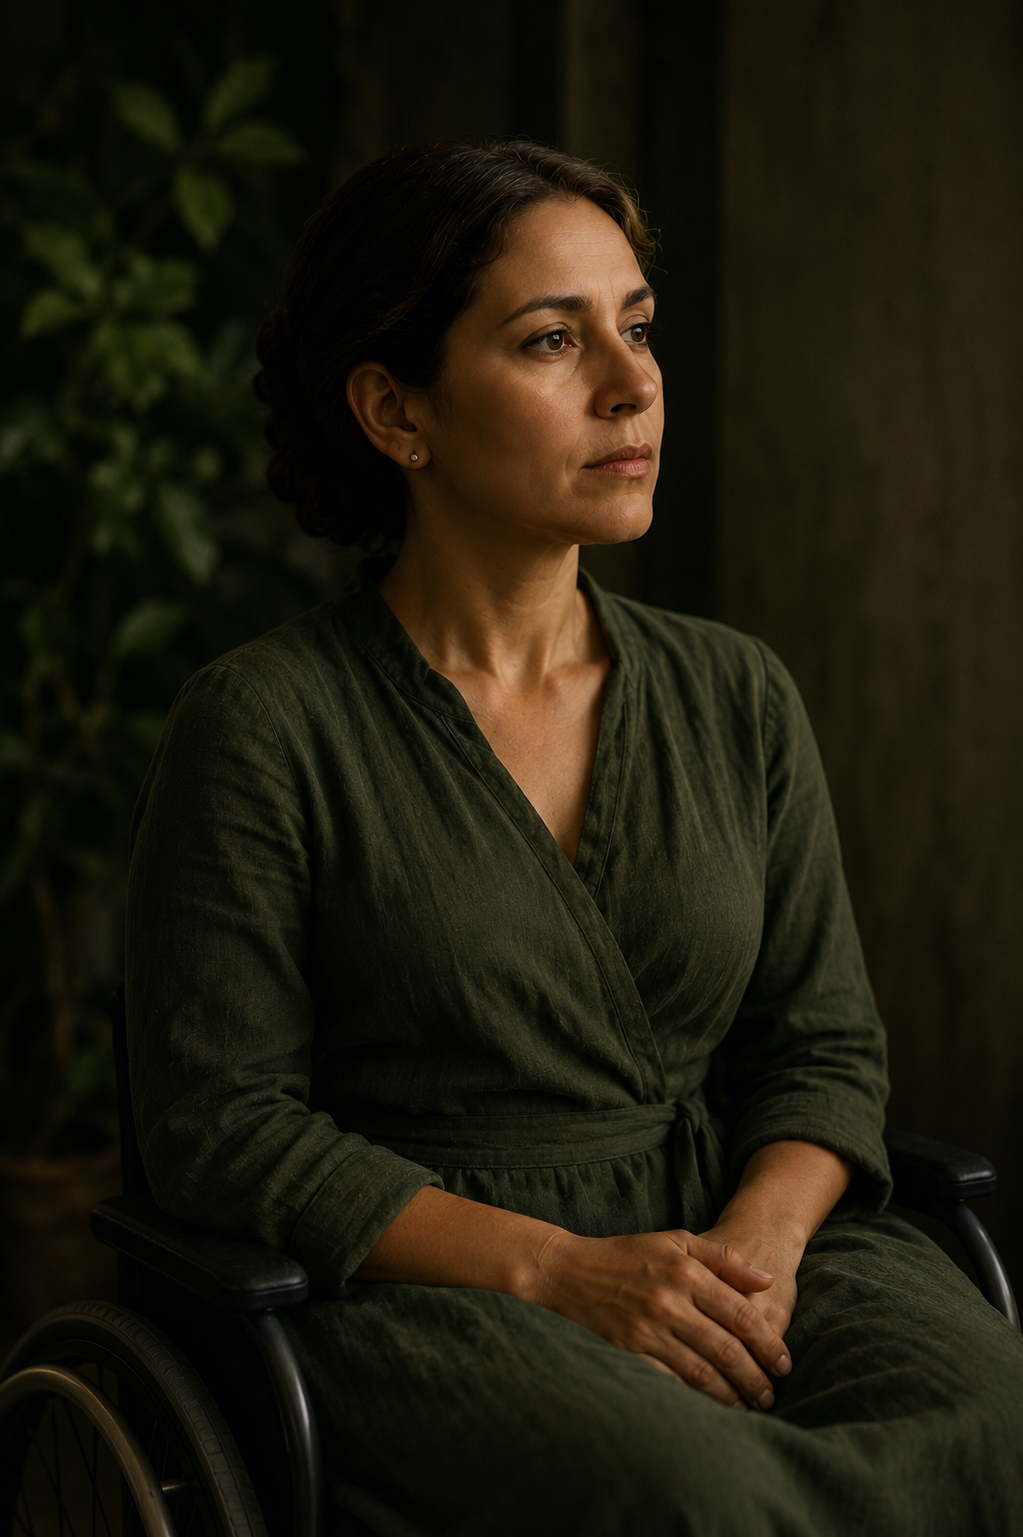
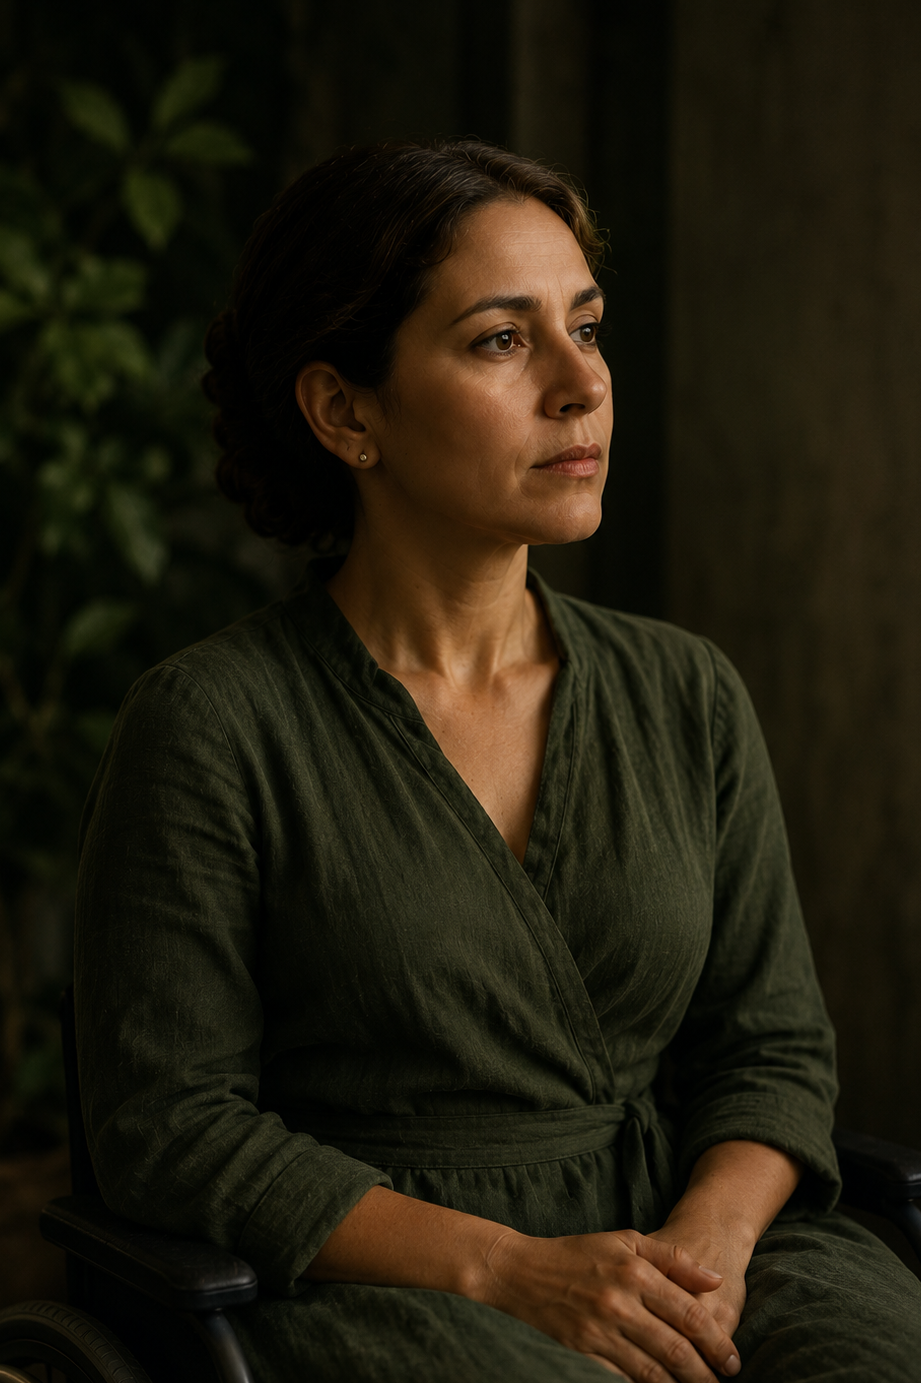
update

diff --git a/movies/campossantos/style.css b/movies/campossantos/style.css
@@ -3,7 +3,7 @@
   --secondary-color: #0a0e05;
   --text-color: #ffec;
   --title-color: #af9960;
-  --line-color: rgba(250, 239, 218, 0.5);
+  --line-color: #faefda4d;
 }
 
 @import url("https://fonts.googleapis.com/css2?family=Cormorant+Garamond:ital,wght@0,200..700;1,300..700&family=Crimson+Pro:ital,wght@0,200..900;1,200..900&display=swap");
@@ -38,7 +38,7 @@ a.button {
 }
 
 h1 {
-  color:  var(--text-color);
+  color: var(--text-color);
   line-height: 1em;
   font-size: 4.5em;
   margin: 0.5em 0;
@@ -52,7 +52,7 @@ p {
 body > header {
   background-image: url("hero.png");
   background-color: black;
-  background-position: right;
+  background-position: left;
   background-size: cover;
   background-repeat: no-repeat;
   max-height: 30em;
@@ -74,6 +74,10 @@ body > header > section {
   text-align: left;
 }
 
+body > p {
+  text-align: center;
+}
+
 button,
 a.button {
   display: inline-block;
@@ -85,6 +89,8 @@ a.button {
   font-weight: bold;
   cursor: pointer;
   border-radius: 0.25em;
+  text-align: center;
+  background-color: #0106;
   -webkit-border-radius: 0.25em;
   -moz-border-radius: 0.25em;
   -ms-border-radius: 0.25em;
@@ -97,9 +103,10 @@ body > footer {
   background-color: black;
   background-size: cover;
   background-position: center;
-  height: 10em;
+  height: fit-content;
+  max-height: 10em;
   text-align: right;
-  padding: 3em 3em 3em 10em;
+  padding: 2em 3em 4em;
   font-family: "Cormorant Garamond", serif;
   border-top: 1px solid var(--line-color);
 }
@@ -110,7 +117,7 @@ body > main {
   flex-direction: row;
   gap: 1em 3em;
   flex-wrap: wrap;
-  padding: 3em 0 0;
+  padding: 2em 0 0;
   background-color: var(--secondary-color);
 }
 
@@ -123,11 +130,25 @@ body > aside > img {
 
 .synopsis,
 .history {
-  width: calc((900px - 6em) / 2);
+  width: calc((900px - 7em) / 2);
 }
 
-.history li {
-  margin-left: 3em;
+.icon {
+  margin-left: 2em;
+  position: relative;
+}
+
+.icon::before {
+  content: "";
+  display: block;
+  position: absolute;
+  width: 3em;
+  height: 3em;
+  left: -3em;
+  background-image: url("icons.png");
+  background-repeat: no-repeat;
+  background-size: cover;
+  background-position: center;
 }
 
 .characters section img {
@@ -148,9 +169,11 @@ body > aside > img {
 
 .characters,
 .details {
+  padding: 0 1em;
   width: 100%;
   display: flex;
   flex-wrap: wrap;
+  justify-content: center;
   gap: 0;
 }
 
@@ -160,7 +183,7 @@ body > aside > img {
 
 .details {
   border-top: 1px solid var(--line-color);
-  background-color: var(--line-color);
+  background-color: var(--text-color);
 }
 
 .details section {
@@ -180,15 +203,14 @@ h3 {
   color: var(--secondary-color) !important;
 }
 
-@media (width <= 800px) {
+@media (width < 900px) {
   .synopsis,
   .history {
-    width: calc(100% - 2em);
+    width: calc(100% - 4em);
   }
 }
 
 @media (width <= 600px) {
-
   .characters section {
     width: calc(100% / 2);
   }
@@ -196,5 +218,8 @@ h3 {
   .details section {
     width: 100%;
   }
-}
 
+  body > footer {
+    padding: 1em;
+  }
+}

diff --git a/movies/campossantos/index.html b/movies/campossantos/index.html
@@ -14,6 +14,7 @@
         draft: "Desarrollo de guion",
         format: "Largometraje",
         duration: "100–120 minutos",
+        author: "Lenin Comprés",
         pages: null,
         period: "República Dominicana, décadas de 1960–1970",
         logline:
@@ -35,9 +36,9 @@
           "oscuridad, humedad y musgo",
         ],
         synopsis: [
-          "Cuando el gobierno ordena trasladar el cementerio privado de la familia, Norma regresa a supervisar el proceso, como lo hizo al cuidar a su padres enfermos.",
-          "Su hermana Raiza, comienza a hablar en metáforas y luego ya sin sentido. Para Norma es una señal de desequilibrio y  amenaza familiar. Para Raiza es la única manera honesta de habitar un mundo que ya no reconoce.",
-          "Norma intenta mantener el orden, pero su conflicto con Engracia revela el choque entre la tradición y la revolución. Y Ana Cándida, hija de Norma, comienza a cruzar el umbral entre la inocencia y la adultez bajo la vigilancia de su madre y la influencia de sus tías.",
+          "Cuando el gobierno ordena trasladar el cementerio privado de la familia Santos, Norma regresa a supervisar el proceso, como lo hizo al cuidar a sus padres enfermos.",
+          "Su hermana Raiza, comienza a hablar en metáforas y luego ya sin sentido. Para Norma es una señal de desequilibrio y una  amenaza familiar. Para Raiza es la única manera honesta de habitar un mundo que ya no reconoce.",
+          "Norma intenta mantener el orden, pero su conflicto con Engracia, la hermana menor, revela el choque entre la tradición y la libertad. Y Ana Cándida, hija de Norma, comienza a cruzar el umbral entre la inocencia y la adultez bajo la vigilancia de su madre y la influencia de sus tías.",
           "La intervención del cura y del médico de la familia, ponen a prueba las certezas de todas. El intento de volver a Raiza a la normalidad termina exponiendo las grietas matrimoniales de Norma, los deseos incontenibles de Engracia y la fragilidad que las sostiene a todas.",
           "Campos Santos es una historia sobre el sentido de la vida, el peso de la memoria y la imposibilidad de conservar para siempre aquello que amamos. Mientras los muertos son trasladados, los vivos deben decidir qué parte del pasado merece permanecer.",
         ],
@@ -62,7 +63,7 @@
           {
             name: "Raiza",
             description:
-              "Filósofa involuntaria. Sus cercanías con la muerte le roban la razón de la vida y la fe de que esta tenga sentido.",
+              "Filósofa involuntaria. Sus roces con la muerte le roban la razón de la vida y la fe de que esta tenga sentido.",
           },
           {
             name: "Engracia",
@@ -82,7 +83,7 @@
           {
             name: "Dr. Cabreja",
             description:
-              "Viejo amigo de la familia. Práctico y terrenal. Aboga siempre por entre las realidades posibles, la más preferible.",
+              "Viejo amigo de la familia. Práctico y terrenal. Aboga por entre las realidades posibles, la más preferible.",
           },
           {
             name: "Camilo",
@@ -92,7 +93,7 @@
           {
             name: "Esther",
             description:
-              "Extraña que viene a representar a la Razón. Entre el juego, la verdad, y la duda, devela una esperanza titilante.",
+              "Extraña que interpreta a la Razón. Y Entre el juego, la verdad, y la duda, devela una esperanza titilante.",
           },
         ],
       };

diff --git a/movies/campossantos/movie.js b/movies/campossantos/movie.js
@@ -21,7 +21,12 @@ DOM.set({
         class: "history",
         h2: "Historia",
         ul: {
-          li: Object.entries(movie.history).map(([key, value]) => ({
+          li_icon: Object.entries(movie.history).map(([key, value], i) => ({
+            css: {
+              before: {
+                backgroundPosition: `center ${i * 25}%`,
+              },
+            },
             h3: key,
             p: value,
           })),
@@ -56,8 +61,9 @@ DOM.set({
                 `Duración: ${movie.duration}`,
                 `Género: ${movie.genre}`,
                 `Idioma: ${movie.language}`,
-                `locación: ${movie.location}`,
+                `Locación: ${movie.location}`,
                 `Estado: ${movie.draft}`,
+                `Autor: ${movie.author}`,
               ],
             },
           },
@@ -71,9 +77,10 @@ DOM.set({
       href: "https://docs.google.com/forms/d/e/1FAIpQLSdim__utpeLGVRwo2z5-qJQ21WPEs1iJ0dCf4ypDQ5agu8D7A/viewform?usp=sharing&ouid=113685914100261088020",
       target: "_blank",
     },
-    p: "Disponible a solicitud para productores y directores.",
+    p: "Disponible para productores y directores.",
     backgroundImage: "footer.png",
   },
+  p: "© Lenin Comprés Todos los derechos reservados."
   /*
   aside : {
     img: {

diff --git a/movies/carmesi/movie.js b/movies/carmesi/movie.js
@@ -61,6 +61,7 @@ DOM.set({
                 `<b>Idioma:</b> ${movie.language}`,
                 `<b>Locación:</b> ${movie.location}`,
                 `<b>Estado:</b> ${movie.draft}`,
+                `<b>Autor:</b> ${movie.author}`,
               ],
             },
           },
@@ -78,9 +79,10 @@ DOM.set({
       href: "https://docs.google.com/forms/d/e/1FAIpQLSdim__utpeLGVRwo2z5-qJQ21WPEs1iJ0dCf4ypDQ5agu8D7A/viewform?usp=sharing&ouid=113685914100261088020",
       target: "_blank",
     },
-    p: "Disponible a solicitud para productores y directores.",
+    p: "Disponible para productores y directores.",
     backgroundImage: "footer.png",
   },
+  p: "© Lenin Comprés Todos los derechos reservados."
   /*
   aside : {
     img: {

diff --git a/movies/carmesi/style.css b/movies/carmesi/style.css
@@ -68,6 +68,10 @@ body > header {
   padding: 3em 20em 3em 3em;
 }
 
+body > p {
+  text-align: center;
+}
+
 body > header > section {
   max-width: 30rem;
   min-width: 18rem;

diff --git a/movies/elsaltodelavirgen/movie.js b/movies/elsaltodelavirgen/movie.js
@@ -61,6 +61,7 @@ DOM.set({
                 `Idioma: ${movie.language}`,
                 `locación: ${movie.location}`,
                 `Estado: ${movie.draft}`,
+                `Autor: ${movie.author}`,
               ],
             },
           },
@@ -78,9 +79,10 @@ DOM.set({
       href: "https://docs.google.com/forms/d/e/1FAIpQLSdim__utpeLGVRwo2z5-qJQ21WPEs1iJ0dCf4ypDQ5agu8D7A/viewform?usp=sharing&ouid=113685914100261088020",
       target: "_blank",
     },
-    p: "Disponible a solicitud para productores y directores.",
+    p: "Disponible para productores y directores.",
     backgroundImage: "footer.png",
   },
+  p: "© Lenin Comprés Todos los derechos reservados."
   /*
   aside : {
     img: {

diff --git a/movies/elsaltodelavirgen/style.css b/movies/elsaltodelavirgen/style.css
@@ -53,6 +53,10 @@ body > header {
   padding: 3em 20em 3em 3em;
 }
 
+body > p {
+  text-align: center;
+}
+
 body > header > section {
   max-width: 30rem;
   min-width: 10rem;

diff --git a/movies/carmesi/index.html b/movies/carmesi/index.html
@@ -15,6 +15,7 @@
         draft: "Tercer borrador",
         format: "Largometraje",
         duration: "90–110 minutos",
+        author: "Lenin Comprés",
         pages: null,
         logline:
           "Durante una sola noche en un motel de carretera escondido tras altos muros y palmeras, varias historias apenas se cruzan, pero cada una deja huellas que transforman las demás antes del amanecer.",

diff --git a/movies/elsaltodelavirgen/index.html b/movies/elsaltodelavirgen/index.html
@@ -14,6 +14,7 @@
         draft: "Tercer borrador",
         format: "Largometraje",
         duration: "90 minutos",
+        author: "Lenin Comprés",
         pages: 89,
         logline:
           "Cuatro jóvenes pasan una noche en una finca cafetalera de las montañas dominicanas, donde lo que parece la antesala de una película slasher revela un drama sobre amistad, violencia patriarcal y pérdida de la inocencia.",